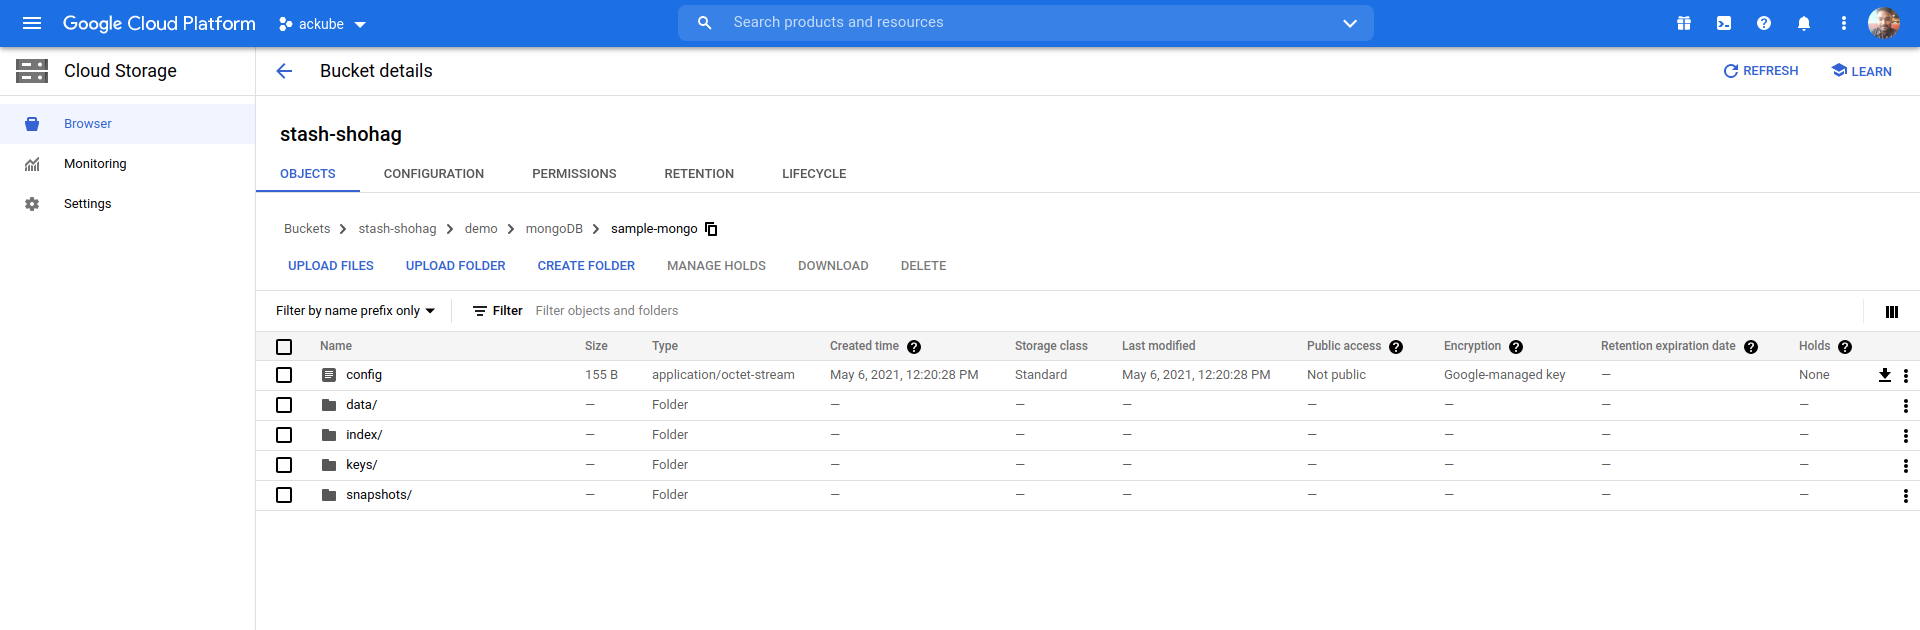
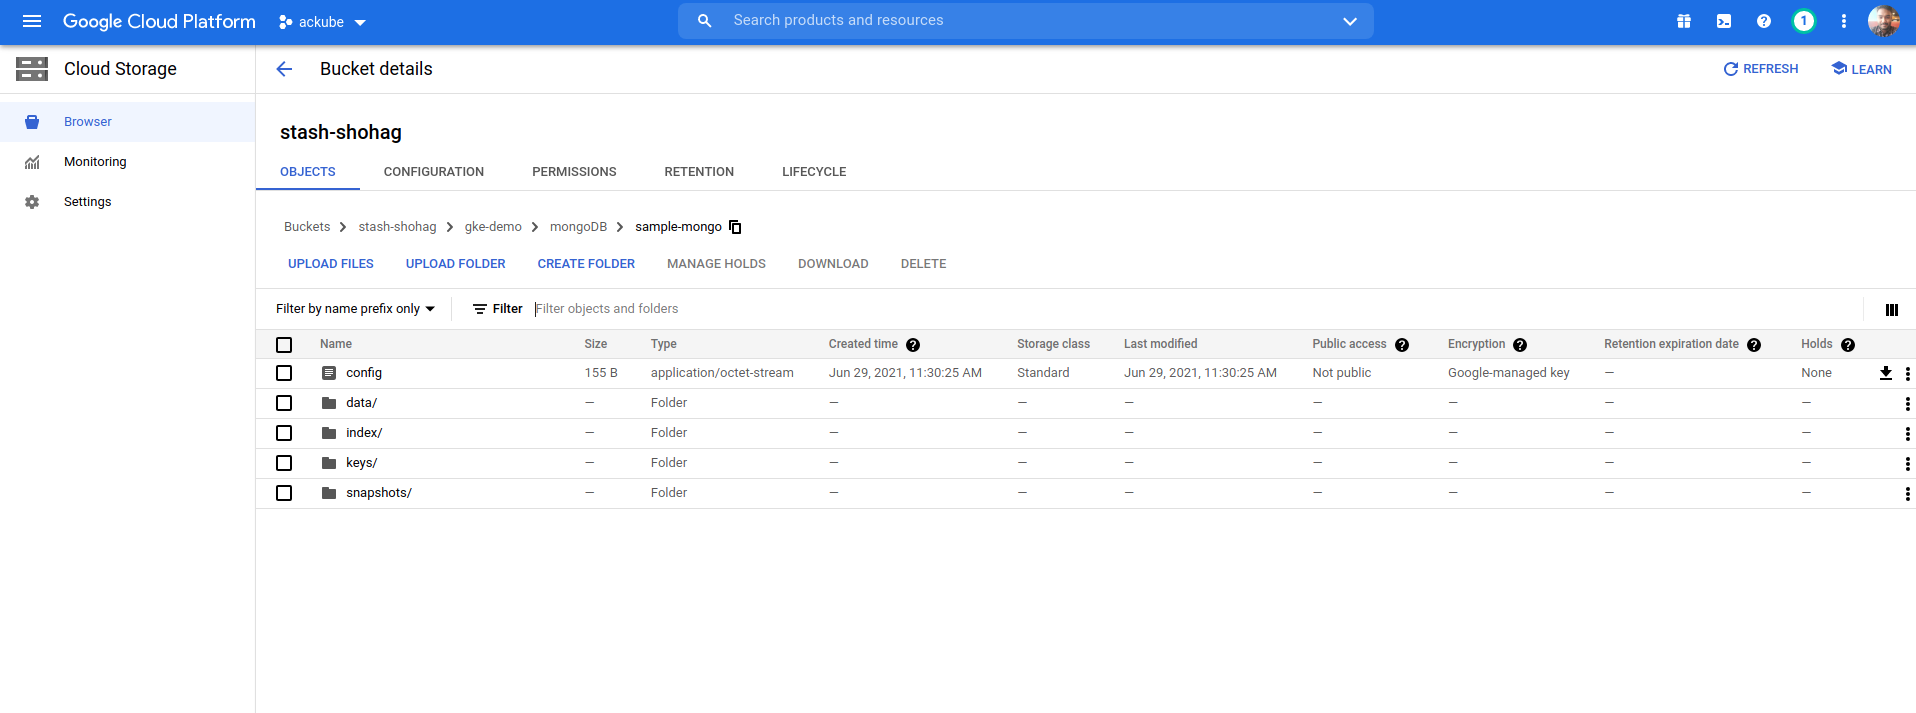
mongodb gke blog update

diff --git a/GKE/3. GKE MongoDB/index.md b/GKE/3. GKE MongoDB/index.md
@@ -1,6 +1,6 @@
 ---
 title: Manage MongoDB in GKE Using KubeDB
-date: 2021-06-14
+date: 2021-06-29
 weight: 22
 authors:
   - Shohag Rana
@@ -167,20 +167,20 @@ Once these are handled correctly and the MongoDB object is deployed you will see
 ```bash
 $ kubectl get all -n demo
 NAME                   READY   STATUS    RESTARTS   AGE
-pod/mgo-quickstart-0   1/1     Running   0          5m49s
+pod/mgo-quickstart-0   1/1     Running   0          96s
 
 NAME                          TYPE        CLUSTER-IP     EXTERNAL-IP   PORT(S)     AGE
-service/mgo-quickstart        ClusterIP   10.217.4.198   <none>        27017/TCP   5m50s
-service/mgo-quickstart-pods   ClusterIP   None           <none>        27017/TCP   5m50s
+service/mgo-quickstart        ClusterIP   10.112.0.106   <none>        27017/TCP   98s
+service/mgo-quickstart-pods   ClusterIP   None           <none>        27017/TCP   98s
 
 NAME                              READY   AGE
-statefulset.apps/mgo-quickstart   1/1     5m52s
+statefulset.apps/mgo-quickstart   1/1     99s
 
 NAME                                                TYPE                 VERSION   AGE
-appbinding.appcatalog.appscode.com/mgo-quickstart   kubedb.com/mongodb   4.2.3     5m23s
+appbinding.appcatalog.appscode.com/mgo-quickstart   kubedb.com/mongodb   4.2.3     59s
 
 NAME                                VERSION   STATUS   AGE
-mongodb.kubedb.com/mgo-quickstart   4.2.3     Ready    6m
+mongodb.kubedb.com/mgo-quickstart   4.2.3     Ready    103s
 ```
 
 > We have successfully deployed MongoDB in GKE. Now we can exec into the container to use the database.
@@ -194,9 +194,10 @@ To access the database through CLI we have to exec into the container:
 $ kubectl  get secrets -n demo mgo-quickstart-auth -o jsonpath='{.data.\username}' | base64 -d
 root
 $ kubectl  get secrets -n demo mgo-quickstart-auth -o jsonpath='{.data.\password}' | base64 -d
-p&_Wc0aDLkfkL0UV
+v!Mc3W05a*(h0)Dp
 $ kubectl exec -it mgo-quickstart-0 -n demo sh
 kubectl exec [POD] [COMMAND] is DEPRECATED and will be removed in a future version. Use kubectl exec [POD] -- [COMMAND] instead.
+# 
  ```
 
  Then to login into MongoDB:
@@ -205,7 +206,7 @@ kubectl exec [POD] [COMMAND] is DEPRECATED and will be removed in a future versi
 # mongo admin
 MongoDB shell version v4.2.3
 connecting to: mongodb://127.0.0.1:27017/admin?compressors=disabled&gssapiServiceName=mongodb
-Implicit session: session { "id" : UUID("ddb8efb4-2af1-4c1a-ad98-3a58b0696c59") }
+Implicit session: session { "id" : UUID("843fa0a7-d675-4181-9c95-64e234ea6258") }
 MongoDB server version: 4.2.3
 Welcome to the MongoDB shell.
 For interactive help, type "help".
@@ -213,7 +214,7 @@ For more comprehensive documentation, see
 	http://docs.mongodb.org/
 Questions? Try the support group
 	http://groups.google.com/group/mongodb-user
-> db.auth("root","p&_Wc0aDLkfkL0UV")
+> db.auth("root","v!Mc3W05a*(h0)Dp")
 1
  ```
 
@@ -230,7 +231,7 @@ switched to db testdb
 > db.movie.insert({"name":"batman"});
 WriteResult({ "nInserted" : 1 })
 > db.movie.find().pretty()
-{ "_id" : ObjectId("6093810e104a7bd2911ec415"), "name" : "batman" }
+{ "_id" : ObjectId("60daad277430604624c4159e"), "name" : "batman" }
 > exit
 bye
 ```
@@ -256,9 +257,12 @@ $ helm install stash appscode/stash             \
 Let's verify the installation:
 
 ```bash
-$ kubectl get pods --all-namespaces -l app.kubernetes.io/name=stash-enterprise --watch
+~ $ kubectl get pods --all-namespaces -l app.kubernetes.io/name=stash-enterprise --watch
 NAMESPACE     NAME                                      READY   STATUS    RESTARTS   AGE
-kube-system   stash-stash-enterprise-77bd9869c6-9wjvv   2/2     Running   0          7d19h
+kube-system   stash-stash-enterprise-6979884d85-7hdfm   0/2     Pending   0          0s
+kube-system   stash-stash-enterprise-6979884d85-7hdfm   0/2     Pending   0          0s
+kube-system   stash-stash-enterprise-6979884d85-7hdfm   0/2     ContainerCreating   0          0s
+kube-system   stash-stash-enterprise-6979884d85-7hdfm   2/2     Running             0          11s
 ```
 
 ### Step 2: Prepare Backend
@@ -331,9 +335,14 @@ spec:
 So, after 5 minutes we can see the following status:
 
 ```bash
-$ kubectl get backupsession -n demo                                 
+$ kubectl get backupsession -n demo
 NAME                               INVOKER-TYPE          INVOKER-NAME            PHASE       AGE
-sample-mongodb-backup-1620282013   BackupConfiguration   sample-mongodb-backup   Succeeded   2m40s
+sample-mongodb-backup-1624944608   BackupConfiguration   sample-mongodb-backup   Succeeded   55s
+
+$ kubectl get repository -n demo
+NAME       INTEGRITY   SIZE        SNAPSHOT-COUNT   LAST-SUCCESSFUL-BACKUP   AGE
+gcs-repo   true        1.997 KiB   1                3m15s                    7m34s
+
 ```
 
 Now if we check our GCS bucket we can see that the backup has been successful.
@@ -356,19 +365,12 @@ At first let's simulate accidental database deletion.
 ```bash
 $ kubectl exec -it mgo-quickstart-0 -n demo sh
 kubectl exec [POD] [COMMAND] is DEPRECATED and will be removed in a future version. Use kubectl exec [POD] -- [COMMAND] instead.
-$ mongo admin
+# mongo admin
 MongoDB shell version v4.2.3
 connecting to: mongodb://127.0.0.1:27017/admin?compressors=disabled&gssapiServiceName=mongodb
-Implicit session: session { "id" : UUID("6185c112-ccfd-44f6-828d-cdca7435372e") }
+Implicit session: session { "id" : UUID("2bdfd985-3adb-4ea9-aab5-8b9e7de935ee") }
 MongoDB server version: 4.2.3
-Welcome to the MongoDB shell.
-For interactive help, type "help".
-For more comprehensive documentation, see
-	http://docs.mongodb.org/
-Questions? Try the support group
-	http://groups.google.com/group/mongodb-user
-2021-05-06T06:28:38.418+0000 I  STORAGE  [main] In File::open(), ::open for '//.mongorc.js' failed with Permission denied
-> db.auth("root","ay=bql8jD5Y;SKrF")
+> db.auth("root","v!Mc3W05a*(h0)Dp")
 1
 > show dbs
 admin   0.000GB
@@ -407,14 +409,13 @@ spec:
     - snapshots: [latest]
 ```
 
-Notice that the `securityContext` field is the same as we mentioned earlier in the BackupConfiguration. This RestoreSession specifies where the data will be restored.
+This RestoreSession specifies where the data will be restored.
 Once this is applied, a RestoreSession will be created. Once it has succeeded, the database has been successfully recovered as you can see below:
 
 ```bash
 $ kubectl get restoresession -n demo
 NAME                     REPOSITORY   PHASE       AGE
-sample-mongodb-restore   gcs-repo     Succeeded   95s
-
+sample-mongodb-restore   gcs-repo     Succeeded   10s
 ```
 
 Now let's check whether the database has been correctly restored:
@@ -426,7 +427,7 @@ config  0.000GB
 local   0.000GB
 testdb  0.000GB
 > db.movie.find().pretty()
-{ "_id" : ObjectId("60938f7a2bfe705fb488fb17"), "name" : "batman" }
+{ "_id" : ObjectId("60daad277430604624c4159e"), "name" : "batman" }
 ```
 
 > The recovery has been successful. If you faced any difficulties in the recovery process, you can reach out to us through [EMAIL](mailto:support@appscode.com?subject=Stash%20Recovery%20Failed%20in%20GKE).
